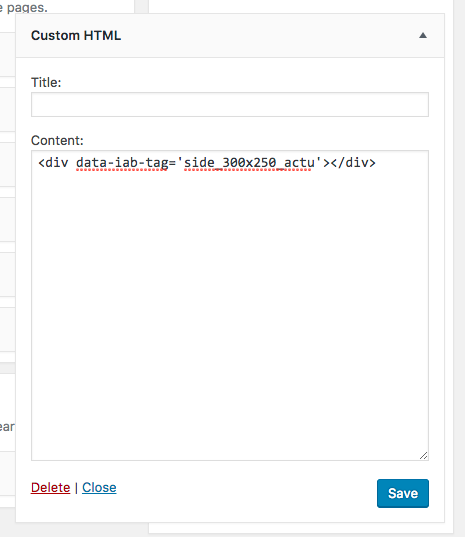
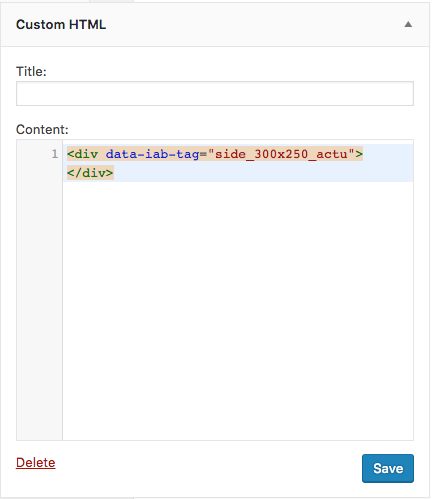
publish: Merge pull request #28 from adback-anti-adblock-solution/fix/double-quote-in-widget
generated from commit dc7e21f6fc8da51ae931da698c21650a186518b9

diff --git a/index.html b/index.html
@@ -1893,7 +1893,7 @@ EOS;
 
 <ul>
 <li>Enter your placement code in the content, leave title blank and click &quot;Save&quot;. Your placement code should look like this: 
-<code>&lt;div data-iab-tag=&#39;side_300x250_actu&#39;&gt;&lt;/div&gt;</code>
+<code>&lt;div data-iab-tag=&quot;side_300x250_actu&quot;&gt;&lt;/div&gt;</code>
 (Change the placement name of course)</li>
 </ul>
 
